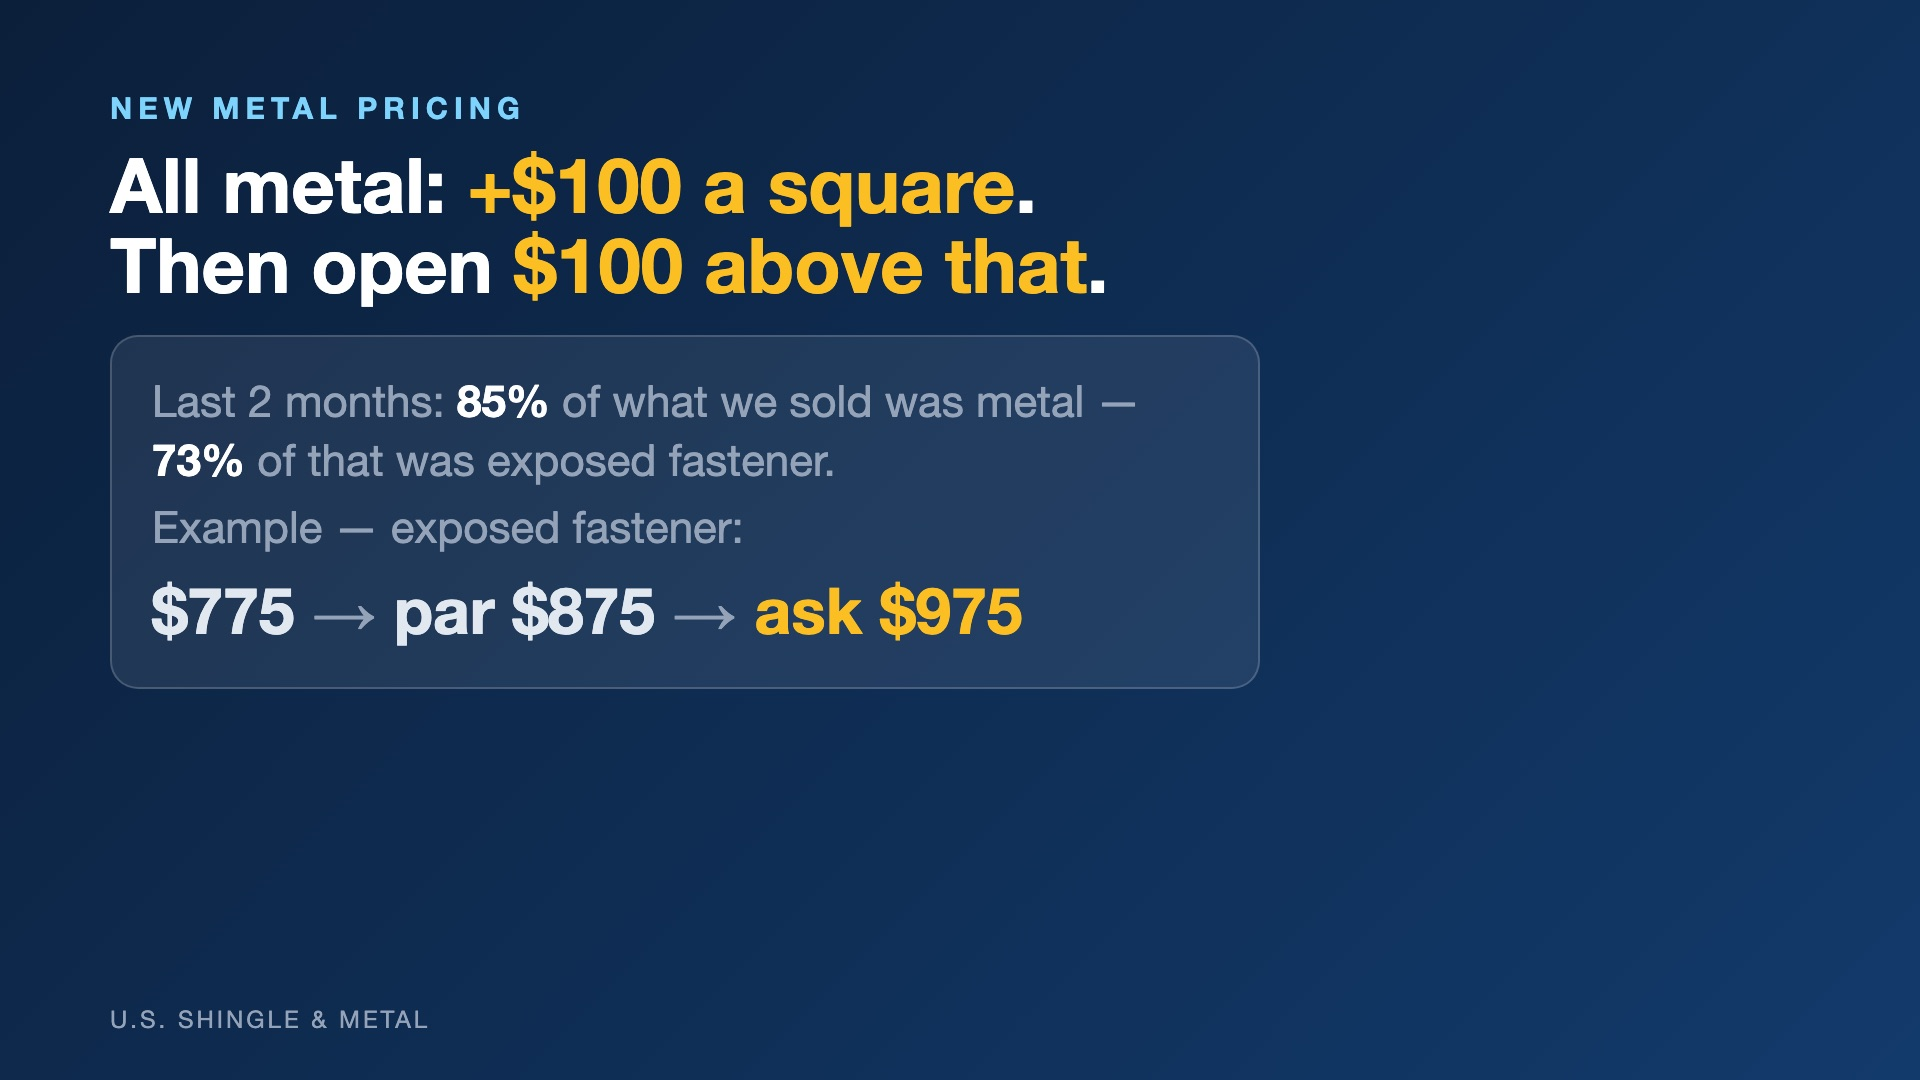
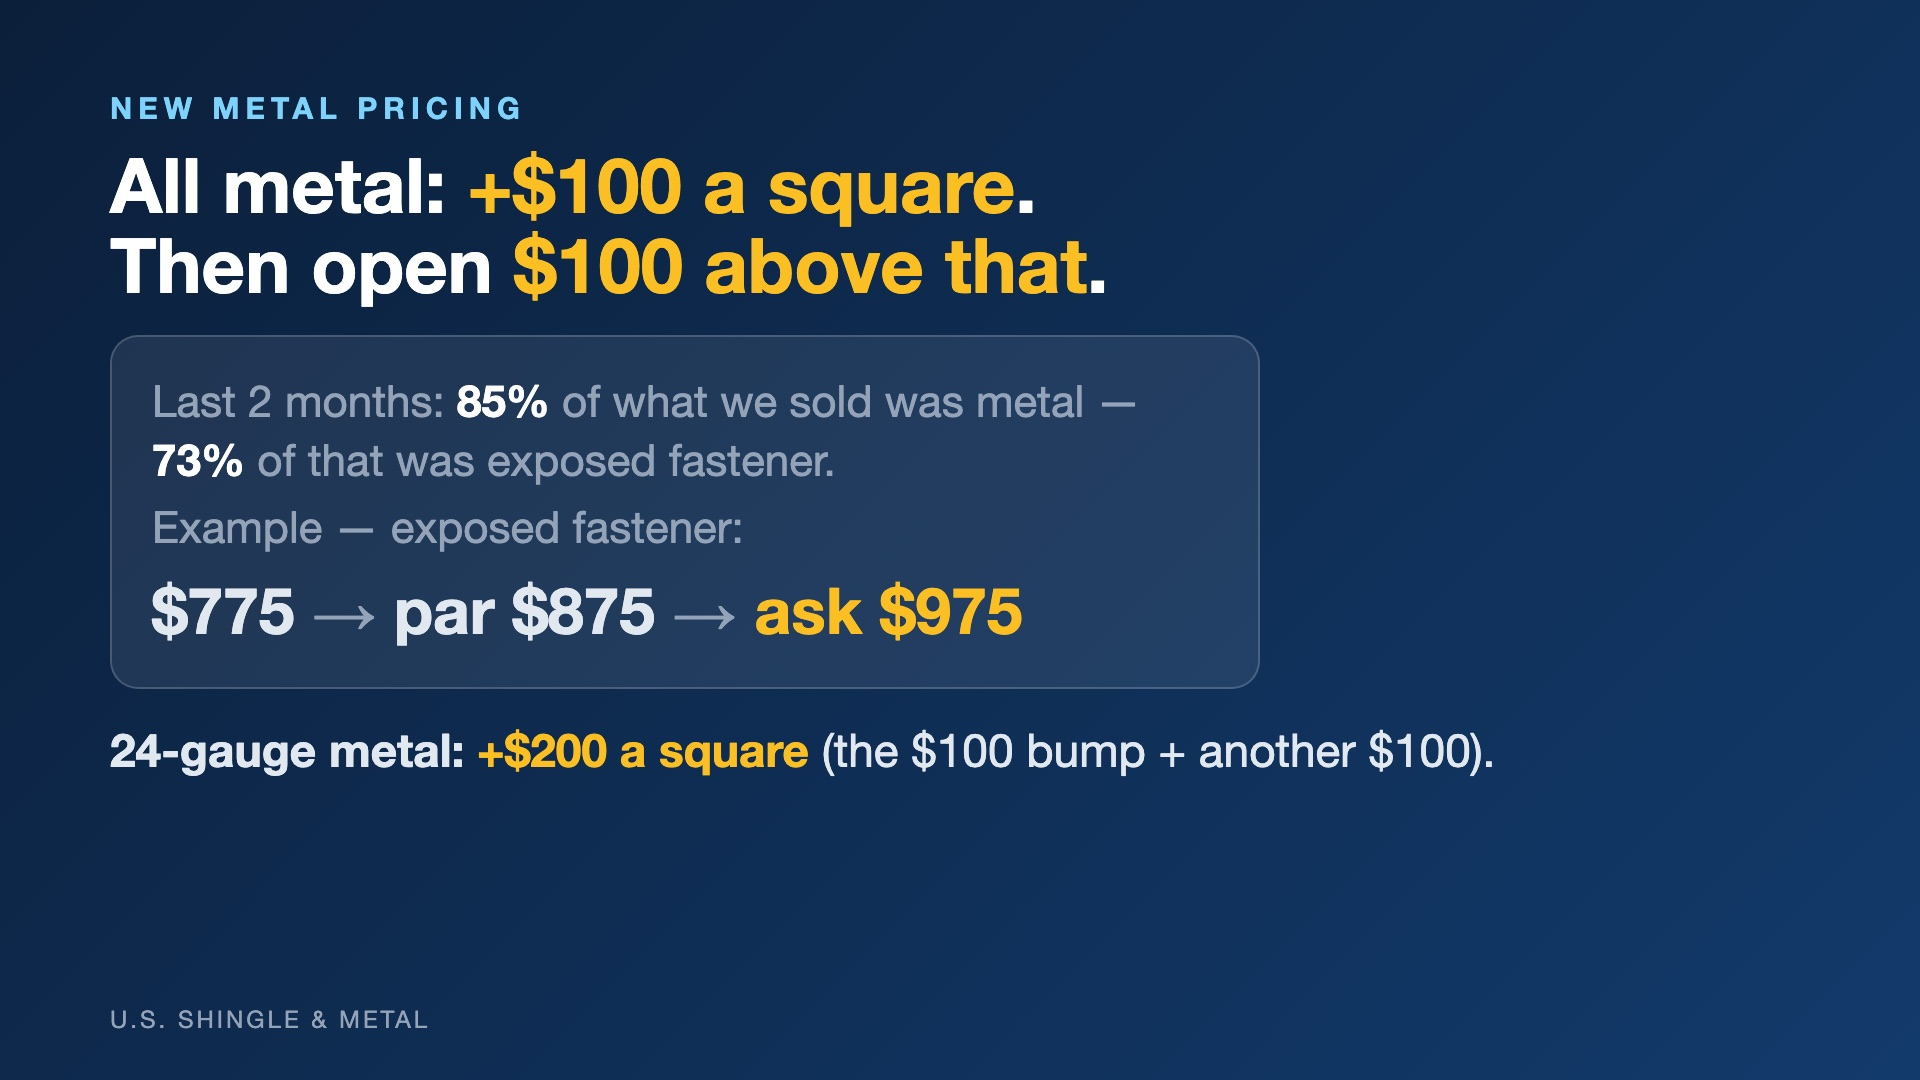
TMS raise deck: 24-gauge +$200/sq moves to the metal pricing slide, off shingle & extras

Changed region(s): [[0.0625, 0.6722, 0.7812, 0.7333]]

diff --git a/public/raise/index.html b/public/raise/index.html
@@ -17,10 +17,10 @@
     <section data-background-image="img/s02.jpg" data-background-size="contain" data-background-color="#0b1f3a"><aside class="notes">Self-gen goes from 10% to 12%. Company-provided leads go from 7% to 8%. That&#x27;s at par — hold par and you get the raise. And metal products are going up $100 a square.</aside></section>
     <section data-background-image="img/s03.jpg" data-background-size="contain" data-background-color="#0b1f3a"><aside class="notes">Walk through the last two weeks of metal sales. 95% had no competitive bid. If they weren&#x27;t comparing prices, why sell below par? Either you started at par when you shouldn&#x27;t have, or you dropped without calling in (a big no-no). They bought because they liked you, the story, the company — or the deal. Not the number.</aside></section>
     <section data-background-image="img/s04.jpg" data-background-size="contain" data-background-color="#0b1f3a"><aside class="notes">Have Dustin Hunt tell it: &#x27;Just listen to me for two weeks — charge $100 more and don&#x27;t drop the price.&#x27; Ask him on the call: did you lose anybody? Did your closing percentage go down? (No.)</aside></section>
-    <section data-background-image="img/s05.jpg" data-background-size="contain" data-background-color="#0b1f3a"><aside class="notes">All metal products go up $100 a square, and you quote $100 more than that first. Exposed fastener goes from $775 to asking $975 (DeWayne said $995 down south — confirm the south number before the meeting). $975 is a price point nobody knows — there&#x27;s nothing to compare it to.</aside></section>
+    <section data-background-image="img/s05.jpg" data-background-size="contain" data-background-color="#0b1f3a"><aside class="notes">All metal products go up $100 a square, and you quote $100 more than that first. 24-gauge metal goes up $200 a square — the $100 bump plus another $100. 85% of what we sold the last two months was metal, and 73% of that was exposed fastener (27% standing seam). Exposed fastener goes from $775 to asking $975 (DeWayne said $995 down south — confirm the south number before the meeting). $975 is a price point nobody knows — there&#x27;s nothing to compare it to.</aside></section>
     <section data-background-image="img/s05b.jpg" data-background-size="contain" data-background-color="#0b1f3a"><aside class="notes">On an average 28-square roof, +$100 a square is $2,800 more. Financed 10 years at 9.99% that&#x27;s $36.99 a month — about $1.22 a day, about $8.50 a week. A coffee a week. Nobody makes or breaks the decision on a dollar a day. Don&#x27;t let the numbers intimidate you — if you&#x27;re not willing to walk away, you&#x27;ll never get the big sales (Tom Hopkins).</aside></section>
     <section data-background-image="img/s06.jpg" data-background-size="contain" data-background-color="#0b1f3a"><aside class="notes">&#x27;It&#x27;s old, it&#x27;s time-tested, I didn&#x27;t make it up.&#x27; On a $28-square roof, $200 a square is $5,600 more — feels like a lot to you, not to the homeowner. Even if you lost one out of ten, you&#x27;d still make more.</aside></section>
-    <section data-background-image="img/s08.jpg" data-background-size="contain" data-background-color="#0b1f3a"><aside class="notes">Nobody&#x27;s using the in-house shingle program the way it was designed, so it&#x27;s gone. Adders: $30 steep, $30 two-story, $20 per layer added to the contract, $100 extra for 24-gauge metal.</aside></section>
+    <section data-background-image="img/s08.jpg" data-background-size="contain" data-background-color="#0b1f3a"><aside class="notes">Nobody&#x27;s using the in-house shingle program the way it was designed, so it&#x27;s gone. Adders: $30 steep, $30 two-story, $20 per layer added to the contract. (24-gauge is on the metal pricing slide.)</aside></section>
     <section data-background-image="img/s07.jpg" data-background-size="contain" data-background-color="#0b1f3a"><aside class="notes">Miss par and the first drop is big: 12% to 7% self-gen, 8% to 4% company leads. Below tier 6 is a $150 mini, no matter how many squares (that&#x27;s mostly shingle; it almost never happens on metal). Odd jobs — like a 500-square townhome complex — we sit down and talk about. CHECK every number on this slide against the spreadsheet.</aside></section>
     <section data-background-image="img/s09.jpg" data-background-size="contain" data-background-color="#0b1f3a"><aside class="notes">Permits run $275 to $1,200 depending on the county, and crews now charge $350–$700 for dump — we&#x27;ve been eating it. So every contract gets a flat $500 permit-fee line. It&#x27;s called a permit fee so the homeowner sees it isn&#x27;t going to us. It starts at $500 on the close sheet, so reps never present it separately — but if you discount around it, you&#x27;ve dropped below par and it costs you.</aside></section>
     <section data-background-image="img/s10.jpg" data-background-size="contain" data-background-color="#0b1f3a"><aside class="notes">Start high, end where you need to be. If you start at the bottom and drop with no authority, you lose all credibility (like the call we listened to — she started low and dropped). Call in before you move.</aside></section>
